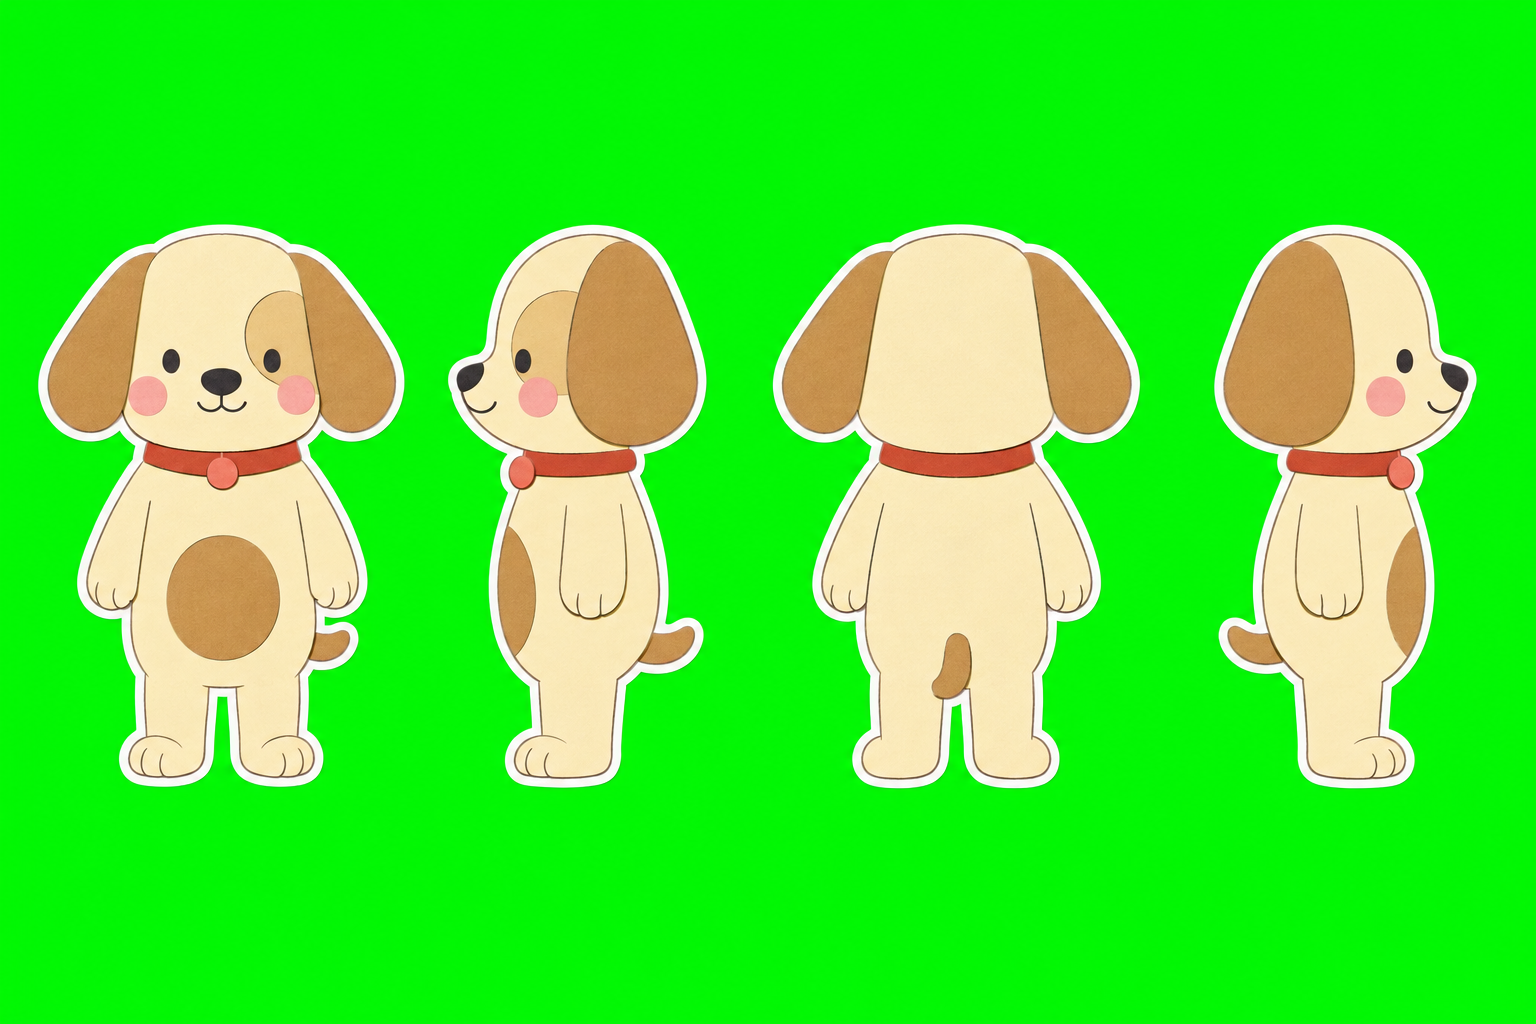
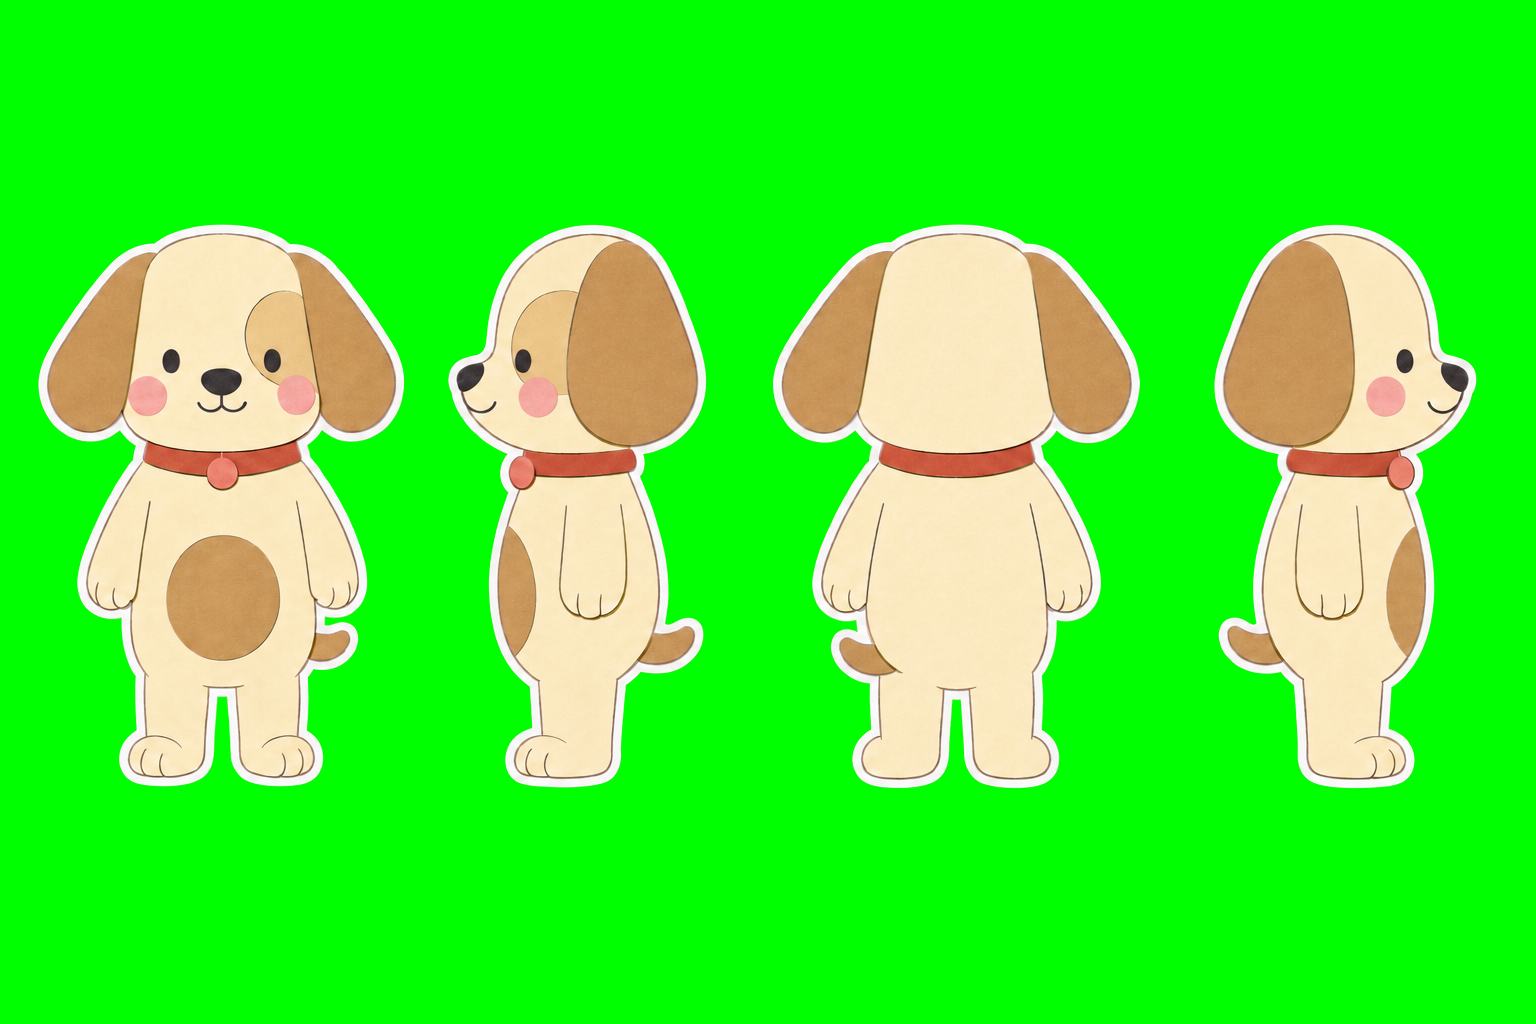
Primepaw: the puppy's tail from behind matches the front, on the turnaround and the back strip
The turnaround's back view had the tail hanging in the middle between the
legs, a blob pointing at the floor, because its prompt said "at the bottom in
the middle"; the front shows a kraft comma at the puppy's left hip curling up.
The turnaround is edited with GPT Image 2.6, the sheet itself as the first
reference and the body as the second, changing only that tail: it now sits
low at the left hip of the back view and curls up, the other three figures
unchanged to the pixel. The back strip is redrawn from the edited turnaround
with the tail spelled out the same way and held the same in every cell, and
dog-walk.png is rebuilt: only the up row changes, 275 px tall with its feet on
the ground line, the other rows and the peeking cuts byte-identical.

The skill's {BACK} slot now says where every part the front shows sits from
behind, mirrored, and comfy.md records the one-figure edit route for a
turnaround that is otherwise right. pet/README.md carries the tail edit and
the new back strip prompt.

Changed region(s): [[0.5312, 0.5938, 0.6562, 0.6875], [0.0938, 0.75, 0.125, 0.7812], [0.0625, 0.4062, 0.0938, 0.4375]]

diff --git a/mockups/primepaw/pet/README.md b/mockups/primepaw/pet/README.md
@@ -46,8 +46,8 @@ attention (3.2 a second), with a little lift and roll on top. The four walk stri
 were drawn with GPT Image 2.6 Sunburst rather than Qwen, which splays the legs when the puppy walks
 away and turns its head in profile. The back strip was drawn from `src/dog/turnaround.png`, the puppy
 from its four sides, because with only the front to go on the model made up a back and put the tummy
-patch there; the turnaround settles it as plain cream with the tail at the bottom. The character skill's
-`comfy.md` has that recipe. `dog-walk.png` is cut to that layout, the puppy's feet on the cell's ground
+patch there; the turnaround settles it as plain cream, the tail at its left hip curling up as the front
+shows it. The character skill's `comfy.md` has that recipe. `dog-walk.png` is cut to that layout, the puppy's feet on the cell's ground
 line and the standing puppy 86% of the cell's height, so the host hands it over as
 
 ```ts
@@ -149,20 +149,37 @@ all, its short tail at the bottom in the middle, its two paws at its sides and t
 at the left. All on a solid flat bright green (#00FF00) background, with no ground line drawn, no grid
 lines, no borders, no labels and no text. Flat paper, no shadows, no gradients, not 3D."
 
+That wording put the tail where it said, hanging in the middle, so the sheet was edited once, the
+turnaround as the first reference and the body as the second: "...Reproduce the turnaround sheet
+exactly as it is, every figure the same size and in the same place, with the same colours, the same
+pen-ink outlines, the same faint paper grain and the same white die-cut sticker border around each
+figure, changing only one thing: the tail of the third figure, the view from behind. In the front view
+the puppy's short kraft brown paper tail (#d9bc86) peeks out from behind its hip on one side, at the
+right of the picture, curving upward like a comma with its tip pointing up and outward. In the back
+view that same tail must show the same way, seen from the other side: it sticks out from the base of
+the puppy's back, low and to one side, at the left of the picture because the puppy has turned around,
+curving upward like a comma with its tip pointing up and outward, the same kraft brown paper with the
+same pen outline and the same size as in the front view. It must not hang down, must not point
+downward and must not sit in the middle between the legs. Nothing else about the back view changes..."
+The skill's `{BACK}` slot now carries the tail that way from the start.
+
 **The back strip** (1536 by 1024, GPT Image 2.6, the turnaround first and the body second): "The first
 reference image is a character turnaround of a paper cut-out friendly floppy-eared puppy: its front,
 its left side, its back and its right side. The second reference image is the same puppy from the
 front. Draw the puppy exactly as the turnaround's third figure shows it from behind: the back of its
 head with no face at all, the backs of both kraft brown floppy ears hanging at the sides of the head,
-the back of the red collar, a plain cream paper back with no patch, its short tail at the bottom in the
-middle, its two paws at its sides and the backs of its little feet, pen-ink outlines, flat paper colours
-with a faint grain, and the white die-cut sticker border. Draw it as a stop-motion sprite sheet: a grid
+the back of the red collar, a plain cream paper back with no patch, its short kraft brown tail sticking
+out from the base of its back, low and at the left of the picture, curving upward like a comma with
+its tip pointing up and outward, exactly as the turnaround's back view shows it and never hanging down
+between its legs, its two paws at its sides and the backs of its little feet, pen-ink outlines, flat
+paper colours with a faint grain, and the white die-cut sticker border. Draw it as a stop-motion sprite sheet: a grid
 of 3 columns and 2 rows, 6 cells of equal size, on a solid flat bright green (#00FF00) background, with
 no grid lines, no borders, no labels and no text. The 6 cells read left to right along the top row and
 then along the bottom row. In every cell the puppy is the same size as in the turnaround, seen from
 directly behind, facing straight away from the viewer, its body upright and square to the viewer in
-every cell, never turning, with its feet standing on the same ground line. The 6 cells: 1. standing
-still with both paws relaxed at its sides, both feet planted, exactly like the turnaround's back view;
+every cell, never turning, with its feet standing on the same ground line and its tail the same in
+every cell. The 6 cells: 1. standing still with both paws relaxed at its sides, both feet planted,
+exactly like the turnaround's back view;
 2. mid-step walking away from us: the left leg planted straight down under the body and the right leg
 bent back and lifted so we see the sole of its raised right foot, the legs staying under the body and
 never spreading sideways, the arms swinging; 3. the other step: the right leg planted straight down and

diff --git a/mockups/primepaw/.claude/skills/primepaw-character/references/prompts.md b/mockups/primepaw/.claude/skills/primepaw-character/references/prompts.md
@@ -16,7 +16,7 @@ prompt opens with the recap so the model keeps the character it is shown.
 | `{HEAD}` | what the avatar shows: the head and whatever sits at the neck | the puppy's head with its ears and the top of its red collar |
 | `{BODY}` | the standing figure, head to toe | a short round cream paper body, a kraft brown paper patch on its tummy, its two front paws hanging relaxed at its sides, two short legs with little round feet planted on the ground, the tip of its tail showing at one side, the same red collar around its neck and the same friendly smiling face |
 | `{SIDE}` | what a profile view shows | one eye, one ear, the tummy patch showing as a sliver at its front, its snout pointing left and its tail at the right |
-| `{BACK}` | what the view from behind shows, absences included: the front never shows the back, so the model makes one up unless this slot settles it | the back of its head with no face, the backs of both floppy ears hanging at the sides, the back of the red collar, a plain cream back with no patch at all, its short tail at the bottom in the middle, its two paws at its sides and the backs of its feet |
+| `{BACK}` | what the view from behind shows, absences included: the front never shows the back, so the model makes one up unless this slot settles it; say where each part the front does show (a tail, a bow) sits from behind, mirrored, or it gets reinvented too | the back of its head with no face, the backs of both floppy ears hanging at the sides, the back of the red collar, a plain cream back with no patch at all, its short kraft brown tail sticking out from the base of its back low on its left side (at the left of the picture, since it has turned around), curving upward like a comma with its tip pointing up and outward, exactly as the front view shows it at its hip, never hanging down between its legs, its two paws at its sides and the backs of its feet |
 | `{PAWS}` | the word for its front limbs | paws |
 | `{EARS}` | the part that bounces, droops or perks (ears, antennae, feathers, a hat) | ears |
 

diff --git a/mockups/primepaw/.claude/skills/primepaw-character/references/comfy.md b/mockups/primepaw/.claude/skills/primepaw-character/references/comfy.md
@@ -81,8 +81,13 @@ as two items of one batch, is the cheap way to have a choice.
 
 - **The turnaround:** the body on `image_1`, the turnaround prompt from `prompts.md`. Judge it like the
   base: four figures of one height on one ground line, the back with no face and with every absence
-  the `{BACK}` slot names (the puppy's plain back, no patch), the profiles with one eye, the same
-  colours in every view. Save it as `pet/src/<id>/turnaround.png`; it never ships, but every strip copies it.
+  the `{BACK}` slot names (the puppy's plain back, no patch), every part the front shows sitting where
+  it should from behind (the puppy's tail at its left hip, curling up as the front shows it, not hanging
+  between the legs), the profiles with one eye, the same colours in every view. Save it as
+  `pet/src/<id>/turnaround.png`; it never ships, but every strip copies it. One figure wrong on a sheet
+  that is otherwise right is an edit, not a redraw: send the sheet back as `image_1` with the body as
+  `image_2` and ask for it reproduced exactly with that one change; the other figures stay in place to
+  the pixel.
 - **Each strip:** the turnaround on `image_1`, the body on `image_2`, the strip prompt, which points at
   the turnaround's figure for that facing. Ask for a grid of 3 columns and 2 rows at that size (the model
   draws 3:2, not a 4:1 strip, and `build.py` reads the six cells in reading order either way) and spell
